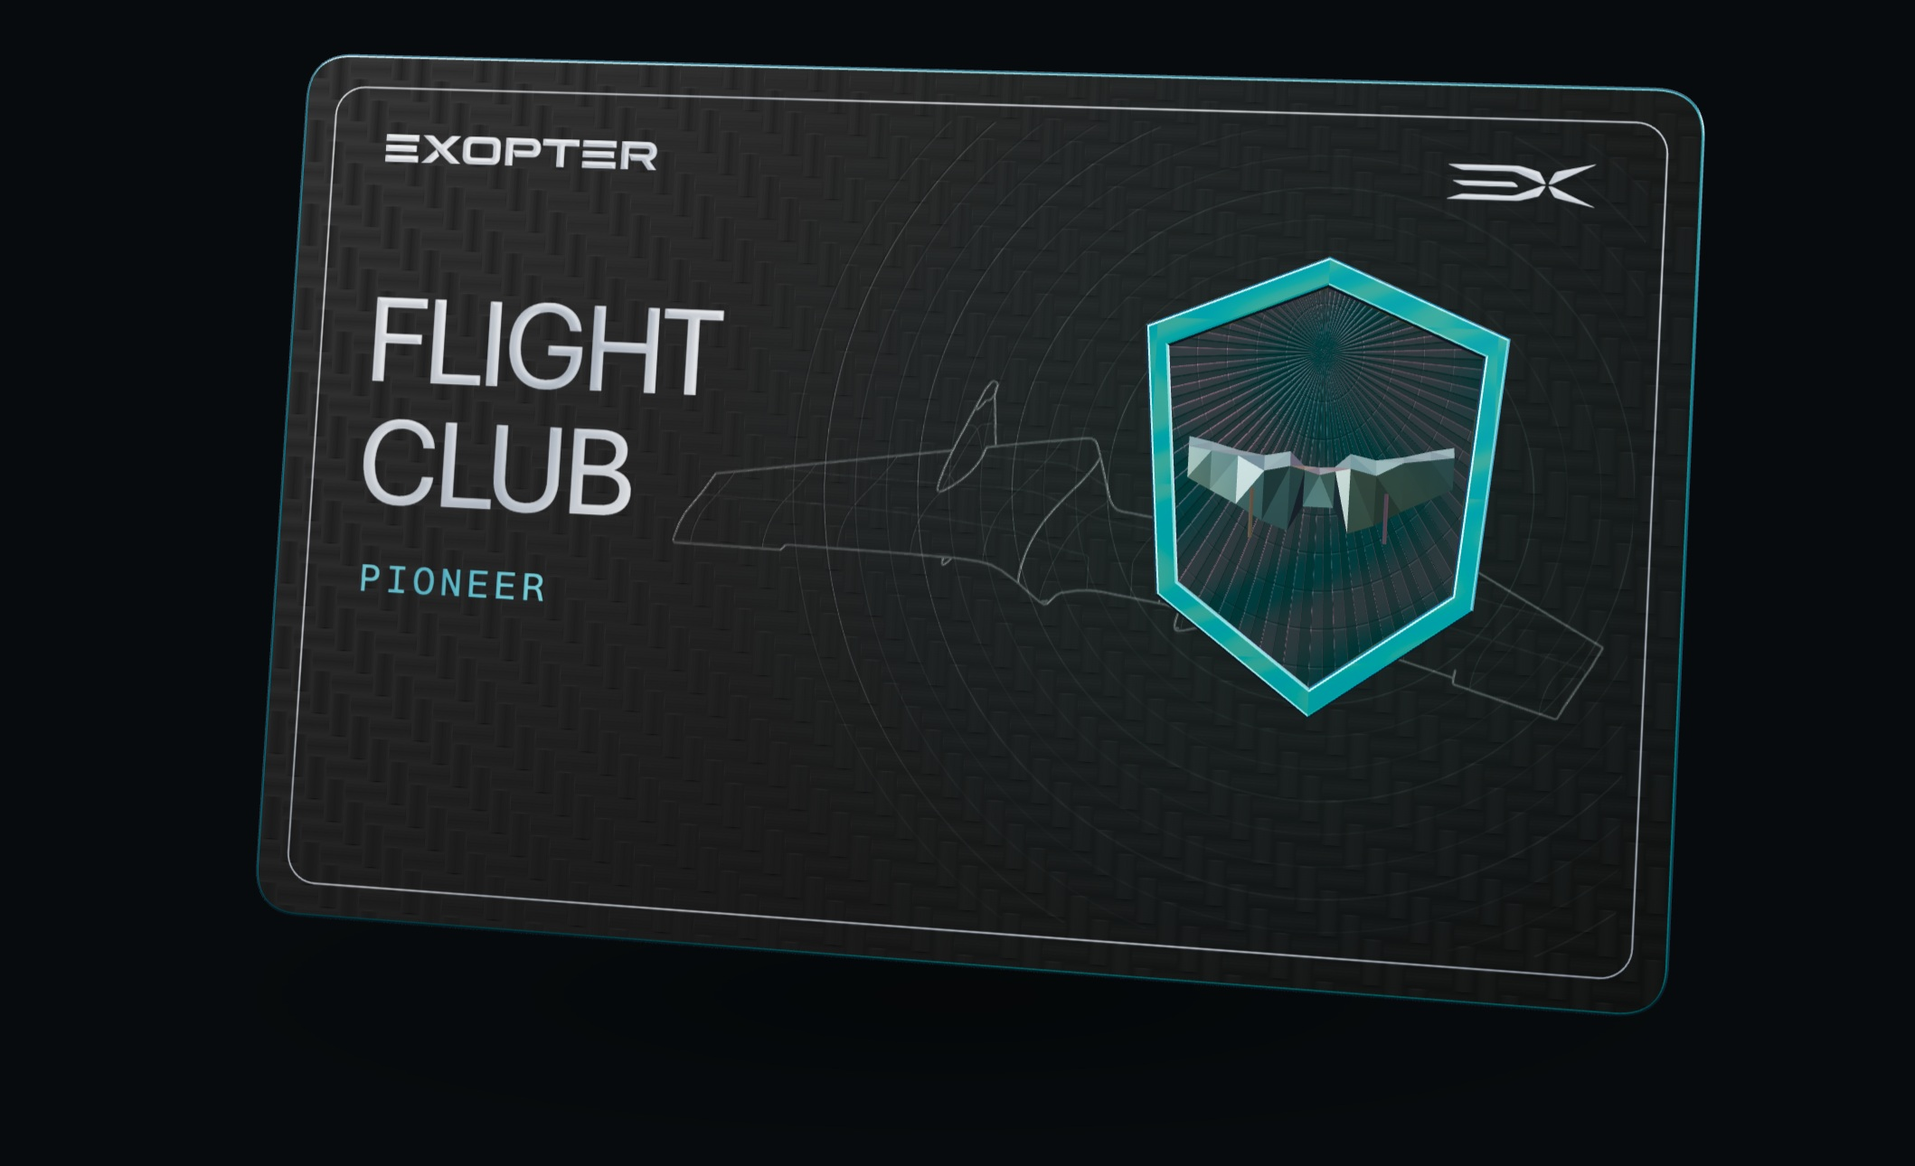
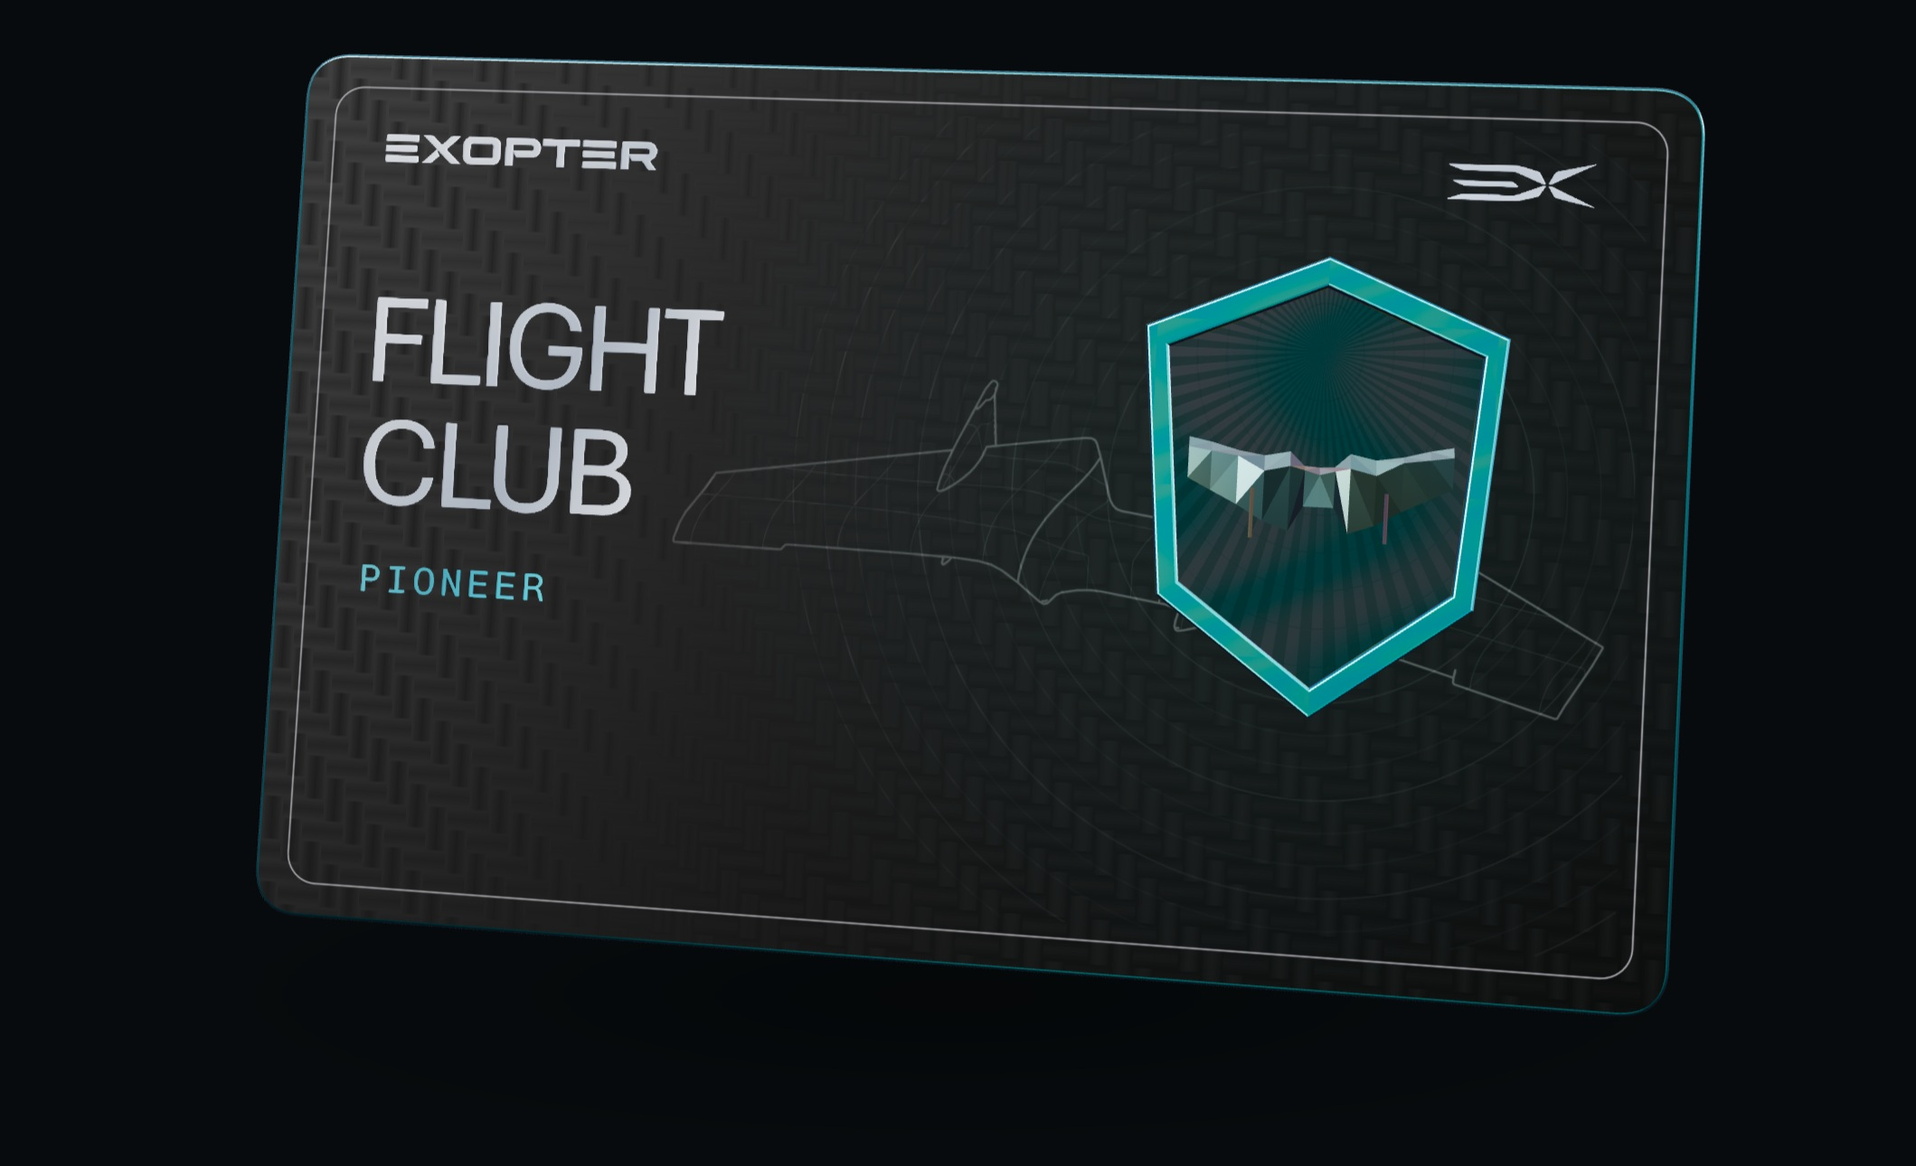
fix(flight-club): synchronize sharp cards across application and email

Changed region(s): [[0.5921, 0.2171, 0.8102, 0.4651], [0.7479, 0.3721, 0.779, 0.5271], [0.3116, 0.124, 0.3428, 0.155]]

diff --git a/app/javascript/lib/membership_card.js b/app/javascript/lib/membership_card.js
@@ -8,7 +8,7 @@ import * as THREE from 'three';
 
 /** @typedef {'pioneer' | 'explorer' | 'pathfinder' | 'trailblazer' | 'core_team'} RankKey */
 /** @typedef {{ rim: [number, number], field: [number, number], label: [number, number], glow: string, haze: string }} Film */
-/** @typedef {{ light: string, deep: string, seam: string, body: string, edge: string, print: string, glow: string, gemGlow: string, gemLight: string, gemDeep: string, alt?: string, relief: number, fieldFilm: number, shine: number, fire: number, gloss: number, sparkle?: number }} Glass */
+/** @typedef {{ light: string, deep: string, seam: string, body: string, edge: string, print: string, glow: string, gemGlow: string, gemLight: string, gemDeep: string, alt?: string, fieldFilm: number, shine: number, fire: number, gloss: number, sparkle?: number }} Glass */
 /** @typedef {{ label: string, finish: string, color: string, metal: string, device: string, field: string, shell: string, crystal?: boolean, ink?: string, inkTint?: string, rim?: string, status?: string, glass?: Glass, film?: Film }} Rank */
 /**
  * @typedef {Object} MembershipCardOptions
@@ -21,7 +21,7 @@ import * as THREE from 'three';
  * @property {string} [edition] Edition line on the reverse.
  * @property {string} [footnote] Small note on the reverse, for example a preview disclaimer.
  * @property {boolean} [personal] `false` leaves the member block off the front, for generic renders.
- * @property {string} [surface] Color of the page behind the canvas, seen through the crystal finish. Defaults to Exopter paper.
+ * @property {string} [transmissionBacking] Studio backing seen through the crystal, independent of the surrounding page. Defaults to Exopter paper.
  * @property {boolean} [dragToTurn] `false` keeps hover, click and programmatic turns only.
  * @property {(flipped: boolean) => void} [onFace] Called when the presented face changes.
  */
@@ -46,7 +46,7 @@ export const PRESENTED = IMPACT + .55 + TURN;
 // Core Team uses saturated violet cut crystal. Each facet scintillates
 // in turn as the card moves (`sparkle`).
 /** @type {Glass} */
-const ORCHID = { light: '#8846f6', deep: '#3000a8', seam: '#d6c0ff', body: '#5f18e6', edge: '#7024f5', print: '#e8deff', glow: '#6a1ad8', gemGlow: '#b48cff', gemLight: '#f3ebff', gemDeep: '#5a1fe0', relief: 6, fieldFilm: .04, shine: .6, fire: .08, gloss: .2, sparkle: .42 };
+const ORCHID = { light: '#8846f6', deep: '#3000a8', seam: '#d6c0ff', body: '#5f18e6', edge: '#7024f5', print: '#e8deff', glow: '#6a1ad8', gemGlow: '#b48cff', gemLight: '#f3ebff', gemDeep: '#5a1fe0', fieldFilm: .04, shine: .6, fire: .08, gloss: .2, sparkle: .42 };
 // `metal` values stay mid-toned so reflections keep their shape instead of clipping to white.
 /** @type {Record<RankKey, Rank>} */
 export const RANKS = {
@@ -79,13 +79,15 @@ const FILM_OFF = .001;
 /**
  * @param {number} [width]
  * @param {number} [height]
+ * @param {number} [resolution]
  * @returns {[HTMLCanvasElement, CanvasRenderingContext2D]}
  */
-function makeCanvas(width = TEX_W, height = TEX_H) {
+function makeCanvas(width = TEX_W, height = TEX_H, resolution = 1) {
   const canvas = document.createElement('canvas');
-  canvas.width = width;canvas.height = height;
+  canvas.width = width * resolution;canvas.height = height * resolution;
   const ctx = canvas.getContext('2d');
   if (!ctx) throw new Error('2D canvas is unavailable.');
+  ctx.scale(resolution, resolution);
   return [canvas, ctx];
 }
 
@@ -284,12 +286,40 @@ function whiteInk(image, width, height) {
 }
 
 /**
+ * Paint one integer facet ID without interpolated edge values.
+ * @param {Uint32Array} pixels
+ * @param {number} width
+ * @param {number} height
+ * @param {[number, number][]} corners
+ * @param {number} level
+ */
+export function paintFacetIdentity(pixels, width, height, corners, level) {
+  const packed = (0xff000000 | level << 16 | level << 8 | level) >>> 0;
+  const firstY = Math.max(0, Math.ceil(Math.min(...corners.map((point) => point[1])) - .5));
+  const lastY = Math.min(height, Math.ceil(Math.max(...corners.map((point) => point[1])) - .5));
+  for (let y = firstY; y < lastY; y++) {
+    const intersections = [];
+    for (let edge = 0; edge < 3; edge++) {
+      const [a, b] = [corners[edge], corners[(edge + 1) % 3]];
+      if ((a[1] <= y + .5 && b[1] > y + .5) || (b[1] <= y + .5 && a[1] > y + .5)) intersections.push(a[0] + (y + .5 - a[1]) * (b[0] - a[0]) / (b[1] - a[1]));
+    }
+    if (intersections.length === 2) {
+      const left = Math.max(0, Math.ceil(Math.min(...intersections) - .5));
+      const right = Math.min(width, Math.ceil(Math.max(...intersections) - .5));
+      if (right > left) pixels.fill(packed, y * width + left, y * width + right);
+    }
+  }
+}
+
+/**
  * @param {HTMLElement} host Positioned element that receives the canvas and pointer gestures.
  * @param {MembershipCardOptions} options
  * @returns {Promise<MembershipCard>}
  */
 export async function createMembershipCard(host, options) {
   const { name, memberNumber, since, assets, footnote = '', personal = true, dragToTurn = true, onFace } = options;
+  // Large Retina presentations need more texels; compact profile cards stay light.
+  const textureResolution = host.getBoundingClientRect().width * Math.min(devicePixelRatio, 2) > TEX_W ? 2 : 1;
   const memberName = name.toUpperCase();
   const number = String(memberNumber).padStart(4, '0');
   /** @type {RankKey} */
@@ -317,7 +347,7 @@ export async function createMembershipCard(host, options) {
   const canvasTexture = (canvas, color = true) => {
     const texture = new THREE.CanvasTexture(canvas);
     if (color) texture.colorSpace = THREE.SRGBColorSpace;
-    texture.anisotropy = 8;
+    texture.anisotropy = 16;
     disposable.push(texture);
     return texture;
   };
@@ -420,7 +450,7 @@ export async function createMembershipCard(host, options) {
    * @param {boolean} reverse
    */
   const makeFace = (rank, reverse) => {
-    const [canvas, ctx] = makeCanvas();
+    const [canvas, ctx] = makeCanvas(TEX_W, TEX_H, textureResolution);
     if (rank.crystal) {
       // On crystal the map only tints what passes through: clear body, sapphire print.
       const glass = rank.glass ?? ORCHID;
@@ -495,20 +525,24 @@ export async function createMembershipCard(host, options) {
       return [cx + Math.cos(angle) * radius * TEX_W / 2, cy + Math.sin(angle) * radius * TEX_H / 2 * 1.3];
     };
     ctx.fillStyle = tint ? mix(.08) : '#9a9a9a';ctx.fillRect(0, 0, TEX_W, TEX_H);
-    ctx.strokeStyle = tint?.seam ?? '#ffffff';ctx.lineWidth = 2;ctx.lineJoin = 'round';
+    // Identifier masks contain integer IDs, never antialiased blends between IDs.
+    const identityPixels = flat ? ctx.createImageData(TEX_W, TEX_H) : null;
+    const identityValues = identityPixels ? new Uint32Array(identityPixels.data.buffer) : null;
     let facet = 0;
     /** @param {[number, number][]} corners */
     const cut = (corners) => {
+      if (identityValues) {
+        paintFacetIdentity(identityValues, TEX_W, TEX_H, corners, (facet * 73) % 256);
+        facet += 1;
+        return;
+      }
       const mx = (corners[0][0] + corners[1][0] + corners[2][0]) / 3;
       const my = (corners[0][1] + corners[1][1] + corners[2][1]) / 3;
       const reach = Math.max(...corners.map(([x, y]) => Math.hypot(x - mx, y - my)));
       const slope = Math.atan2(my - cy, mx - cx) + (facet % 2 ? .9 : -.9);
       const depth = .55 + .45 * ((facet * 37) % 10) / 10;
       const tilt = ctx.createLinearGradient(mx - Math.cos(slope) * reach, my - Math.sin(slope) * reach, mx + Math.cos(slope) * reach, my + Math.sin(slope) * reach);
-      if (flat) {
-        const level = (facet * 73) % 256;
-        tilt.addColorStop(0, `rgb(${level},${level},${level})`);tilt.addColorStop(1, `rgb(${level},${level},${level})`);
-      } else if (tint) {
+      if (tint) {
         // Each facet holds a little more or less color, and fades across its own plane.
         const hold = .12 + .62 * depth * (facet % 3 === 0 ? 1 : .5);
         tilt.addColorStop(0, mix(hold * .4, facet % 2 === 1));tilt.addColorStop(1, mix(hold, facet % 2 === 1));
@@ -518,7 +552,7 @@ export async function createMembershipCard(host, options) {
       }
       ctx.beginPath();ctx.moveTo(...corners[0]);ctx.lineTo(...corners[1]);ctx.lineTo(...corners[2]);ctx.closePath();
       ctx.fillStyle = tilt;ctx.fill();
-      if (tint) { ctx.globalAlpha = .7;ctx.stroke();ctx.globalAlpha = 1; }
+
       facet += 1;
     };
     for (let level = 0; level < rings.length - 1; level++) {
@@ -529,13 +563,18 @@ export async function createMembershipCard(host, options) {
         else { cut([vertex(inner, i), vertex(outer, j), vertex(outer, j + 1)]);j += 1; }
       }
     }
+    if (identityPixels) ctx.putImageData(identityPixels, 0, 0);
   };
 
-  /** @param {boolean} [flat] */
-  const makeFacets = (flat = false) => {
+  const makeFacetIdentities = () => {
     const [canvas, ctx] = makeCanvas();
-    cutFacets(ctx, null, flat);
-    return canvasTexture(canvas, false);
+    cutFacets(ctx, null, true);
+    const identities = canvasTexture(canvas, false);
+    // IDs are discrete: interpolating neighboring values invents bright seams.
+    identities.magFilter = THREE.NearestFilter;
+    identities.minFilter = THREE.NearestFilter;
+    identities.generateMipmaps = false;
+    return identities;
   };
 
   // Engraving on crystal is frosted: the grooves scatter light, the body stays clear.
@@ -553,12 +592,12 @@ export async function createMembershipCard(host, options) {
    * @returns {Foil}
    */
   const makeFoil = (draw) => {
-    const [canvas, ctx] = makeCanvas();
+    const [canvas, ctx] = makeCanvas(TEX_W, TEX_H, textureResolution);
     draw(ctx);
-    const [relief, reliefCtx] = makeCanvas();
+    const [relief, reliefCtx] = makeCanvas(TEX_W, TEX_H, textureResolution);
     reliefCtx.fillStyle = '#000000';reliefCtx.fillRect(0, 0, TEX_W, TEX_H);
     reliefCtx.filter = 'blur(2.5px)';
-    reliefCtx.drawImage(canvas, 0, 0);
+    reliefCtx.drawImage(canvas, 0, 0, TEX_W, TEX_H);
     // Printed tonal bands support the real environment reflections at the resting angle.
     ctx.globalCompositeOperation = 'source-in';
     const bands = ctx.createLinearGradient(0, 180, 1200, 920);
@@ -581,7 +620,7 @@ export async function createMembershipCard(host, options) {
    * @param {number} floor
    */
   const foilMaterial = (foil, color, tint, floor) => {
-    const material = new THREE.MeshPhysicalMaterial({ map: foil.map, bumpMap: foil.bump, bumpScale: 2.2, color, metalness: 1, roughness: .26, anisotropy: .7, anisotropyRotation: .3, clearcoat: .5, clearcoatRoughness: .25, envMapIntensity: 1.4, transparent: true, alphaTest: .08, depthWrite: false });
+    const material = new THREE.MeshPhysicalMaterial({ map: foil.map, bumpMap: foil.bump, bumpScale: .12, color, metalness: 1, roughness: .26, anisotropy: .7, anisotropyRotation: .3, clearcoat: .5, clearcoatRoughness: .25, envMapIntensity: 1.4, transparent: true, alphaTest: .01, alphaToCoverage: true, depthWrite: false });
     // A legibility floor plus one narrow band that travels with the card's
     // orientation: the lettering never drops to black against the carbon.
     material.onBeforeCompile = (shader) => {
@@ -647,10 +686,9 @@ export async function createMembershipCard(host, options) {
   const shell = new THREE.Mesh(new THREE.ExtrudeGeometry(roundedShape(CARD_W, CARD_H, .28), { depth: .065, bevelEnabled: true, bevelThickness: .025, bevelSize: .025, bevelSegments: 4, curveSegments: 24, steps: 1 }), shellMaterial);
   shell.position.z = -.033;
   card.add(shell);
-  // The crystal finish refracts the page behind the canvas. A canvas has no
-  // page to sample, so a backdrop in the page color exists only in the
-  // transmission pass and never paints the canvas itself.
-  const backdropMaterial = new THREE.MeshBasicMaterial({ color: new THREE.Color(options.surface ?? '#f5f4f0').multiplyScalar(2.4), depthWrite: false, toneMapped: false });
+  // A neutral studio backing preserves the crystal finish on every page.
+  // It exists only in the transmission pass and never paints the canvas.
+  const backdropMaterial = new THREE.MeshBasicMaterial({ color: new THREE.Color(options.transmissionBacking ?? '#f5f4f0').multiplyScalar(2.4), depthWrite: false, toneMapped: false });
   const backdrop = new THREE.Mesh(new THREE.PlaneGeometry(90, 60), backdropMaterial);
   backdrop.position.z = -5;backdrop.visible = false;
   backdrop.onBeforeRender = (target) => { backdropMaterial.colorWrite = target.getRenderTarget() !== null; };
@@ -687,7 +725,7 @@ export async function createMembershipCard(host, options) {
    */
   const faceMaterial = (reverse, map) => {
     const surface = makeSurface(reverse);
-    return new THREE.MeshPhysicalMaterial({ map, metalness: 0, roughness: .7, roughnessMap: surface, bumpMap: surface, bumpScale: .55, specularIntensity: .6, envMapIntensity: .45 });
+    return new THREE.MeshPhysicalMaterial({ map, metalness: 0, roughness: .7, roughnessMap: surface, bumpMap: surface, bumpScale: .08, specularIntensity: .6, envMapIntensity: .45 });
   };
   const frontMaterial = faceMaterial(false, first.front);
   const front = new THREE.Mesh(faceGeometry(), frontMaterial);
@@ -697,15 +735,12 @@ export async function createMembershipCard(host, options) {
   /** @typedef {{ front: THREE.MeshPhysicalMaterial, back: THREE.MeshPhysicalMaterial, shell: THREE.MeshPhysicalMaterial }} Substrate */
   /** @type {Map<Glass, Substrate>} */
   const crystals = new Map();
-  /** @type {THREE.CanvasTexture | null} */
-  let facets = null;
   /** @param {Glass} glass */
   const crystalMaterials = (glass) => {
     const cut = crystals.get(glass);
     if (cut) return cut;
-    facets ??= makeFacets();
     /** @param {boolean} reverse */
-    const face = (reverse) => new THREE.MeshPhysicalMaterial({ metalness: 0, roughness: .55, roughnessMap: makeFrost(reverse), bumpMap: facets, bumpScale: glass.relief, transmission: 1, thickness: .5, ior: 2.1, attenuationColor: glass.body, attenuationDistance: .8, dispersion: 6, iridescence: glass.fire, iridescenceIOR: 1.6, clearcoat: glass.gloss, clearcoatRoughness: .03, specularIntensity: glass.gloss, envMapIntensity: glass.shine });
+    const face = (reverse) => new THREE.MeshPhysicalMaterial({ metalness: 0, roughness: .55, roughnessMap: makeFrost(reverse), transmission: 1, thickness: .5, ior: 2.1, attenuationColor: glass.body, attenuationDistance: .8, dispersion: 6, iridescence: glass.fire, iridescenceIOR: 1.6, clearcoat: glass.gloss, clearcoatRoughness: .03, specularIntensity: glass.gloss, envMapIntensity: glass.shine });
     const shellCrystal = new THREE.MeshPhysicalMaterial({ metalness: 0, roughness: .02, transmission: 1, thickness: .8, ior: 2.2, attenuationColor: glass.edge, attenuationDistance: .22, dispersion: 9, iridescence: .7, iridescenceIOR: 1.7, clearcoat: 1, envMapIntensity: 2.2 });
     /** @type {Substrate} */
     const crystal = { front: face(false), back: face(true), shell: shellCrystal };
@@ -713,7 +748,7 @@ export async function createMembershipCard(host, options) {
     if (glass.sparkle) {
       // Scintillation: every facet has its own angle at which it flares pale
       // violet, so light runs from facet to facet as the card moves.
-      const identities = { value: makeFacets(true) };
+      const identities = { value: makeFacetIdentities() };
       const strength = glass.sparkle.toFixed(2);
       for (const material of [crystal.front, crystal.back]) {
         material.onBeforeCompile = (shader) => {
@@ -744,8 +779,14 @@ export async function createMembershipCard(host, options) {
     if (reverse) mesh.rotation.y = Math.PI;
     card.add(mesh);
   };
+  // The hairline is a clean antialiased inlay, without a bump map that can
+  // turn its subpixel edge into alternating bright and dark fragments.
+  const [hairlineCanvas, hairlineCtx] = makeCanvas(TEX_W, TEX_H, textureResolution);
+  drawHairline(hairlineCtx);
+  const hairline = new THREE.MeshBasicMaterial({ map: canvasTexture(hairlineCanvas), color: '#e6e2f5', transparent: true, opacity: .75, depthWrite: false });
+  inlay(hairline, .071, 3);
+  inlay(hairline, -.075, 3, true);
   const frontInk = foilMaterial(makeFoil((ctx) => {
-    drawHairline(ctx);
     ctx.drawImage(wordmark, 128, 116, 420, 42);
     ctx.drawImage(monogram, 1690, 98, 230, 80);
     text(ctx, 'FLIGHT', 116, 490, 192, { family: 'Aptos Display', tracking: -7 });
@@ -763,7 +804,6 @@ export async function createMembershipCard(host, options) {
   const back = new THREE.Mesh(faceGeometry(), backMaterial);
   back.rotation.y = Math.PI;back.position.z = -.066;card.add(back);
   const backInk = foilMaterial(makeFoil((ctx) => {
-    drawHairline(ctx);
     ctx.drawImage(wordmark, 128, 116, 340, 34);
     text(ctx, 'THE STORY IS', 122, 372, 96, { family: 'Aptos Display', tracking: -2 });
     text(ctx, 'OURS TO WRITE.', 122, 478, 96, { family: 'Aptos Display', tracking: -2 });
@@ -783,10 +823,10 @@ export async function createMembershipCard(host, options) {
     const glass = rank.glass ?? ORCHID;
     /** @param {number} strength */
     const film = (strength) => ({ iridescence: isPioneer || isCrystal ? strength : FILM_OFF, iridescenceIOR: 1.38, iridescenceThicknessMap: interferenceMap });
-    const rimMaterial = new THREE.MeshPhysicalMaterial({ color: rank.rim ?? rank.metal, metalness: 1, roughness: .3, bumpMap: foilGrain, bumpScale: .5, anisotropy: .5, clearcoat: .3, clearcoatRoughness: .3, ...film(1) });
+    const rimMaterial = new THREE.MeshPhysicalMaterial({ color: rank.rim ?? rank.metal, metalness: 1, roughness: .3, bumpMap: foilGrain, bumpScale: .035, anisotropy: .5, clearcoat: .3, clearcoatRoughness: .3, ...film(1) });
     // The recessed field is a guilloche sunburst under a satin film: it stays
     // dark at rest and opens up when the card tilts.
-    const fieldMaterial = new THREE.MeshPhysicalMaterial({ color: rank.field, metalness: 1, roughness: .62, roughnessMap: guillocheMap, bumpMap: guillocheMap, bumpScale: 1.2, envMapIntensity: isPioneer || isCrystal ? 1.5 : 1.1, emissive: rank.film?.glow ?? (isCrystal ? glass.glow : '#000000'), emissiveIntensity: .35, ...film(isCrystal ? glass.fieldFilm : .5), iridescenceIOR: 1.5 });
+    const fieldMaterial = new THREE.MeshPhysicalMaterial({ color: rank.field, metalness: 1, roughness: .62, roughnessMap: guillocheMap, bumpMap: guillocheMap, bumpScale: .08, envMapIntensity: isPioneer || isCrystal ? 1.5 : 1.1, emissive: rank.film?.glow ?? (isCrystal ? glass.glow : '#000000'), emissiveIntensity: .35, ...film(isCrystal ? glass.fieldFilm : .5), iridescenceIOR: 1.5 });
     const deviceMaterial = new THREE.MeshPhysicalMaterial({ color: rank.device, metalness: 1, roughness: isCrystal ? .05 : .24, envMapIntensity: isCrystal ? 2.6 : 1.5, emissive: isCrystal ? glass.gemGlow : '#000000', emissiveIntensity: .16, vertexColors: true, clearcoat: .2, clearcoatRoughness: .2, ...film(isCrystal ? .9 : .45) });
     filmThickness(rimMaterial, rimFilm[0], rimFilm[1]);filmThickness(fieldMaterial, fieldFilm[0], fieldFilm[1]);filmThickness(deviceMaterial, rimFilm[0], rimFilm[1]);
     const shieldPoints = [[0, 1.38], [1.05, .94], [.91, -.65], [0, -1.32], [-.91, -.65], [-1.05, .94]];

diff --git a/app/javascript/controllers/membership_card_controller.js b/app/javascript/controllers/membership_card_controller.js
@@ -51,7 +51,6 @@ export default class extends TypedController {
       memberNumber: this.numberValue,
       tier: /** @type {import("membership_card").RankKey} */ (this.tierValue),
       since: this.sinceValue,
-      surface: getComputedStyle(this.element).getPropertyValue("--membership-card-surface").trim(),
       assets: { wordmark: this.wordmarkValue, monogram: this.monogramValue, wing: this.wingValue },
       onFace: (flipped) => this.showFace(flipped)
     }).then((card) => {

diff --git a/app/assets/stylesheets/flight_club.css b/app/assets/stylesheets/flight_club.css
@@ -40,7 +40,6 @@
   --club-text: var(--club-ink);
   --club-secondary: var(--club-muted);
   --club-rule: var(--club-line);
-  --membership-card-surface: var(--club-surface);
 
   position: relative;
   display: grid;

diff --git a/app/assets/stylesheets/application.css b/app/assets/stylesheets/application.css
@@ -547,7 +547,6 @@ body {
 }
 
 .sillage-profile-card {
-  --membership-card-surface: var(--surface-panel);
   position: relative;
   display: grid;
   color: var(--text-body);
